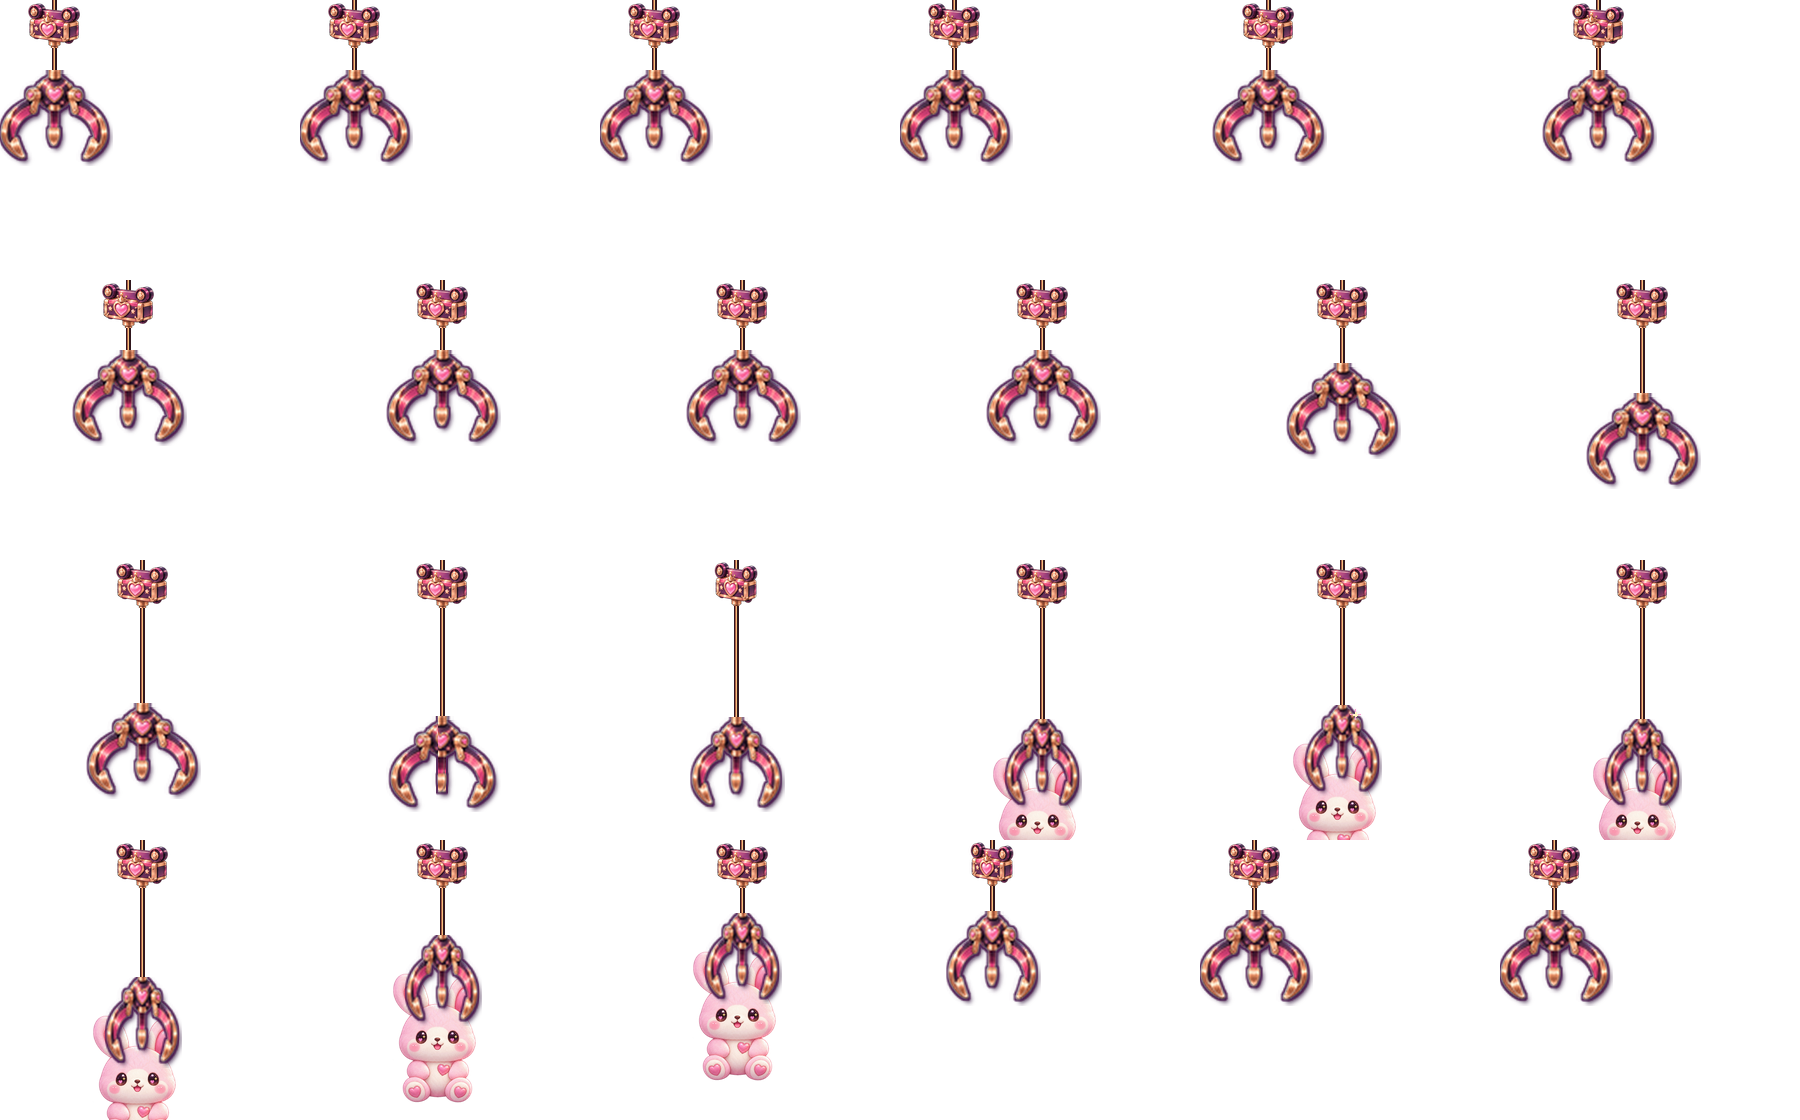
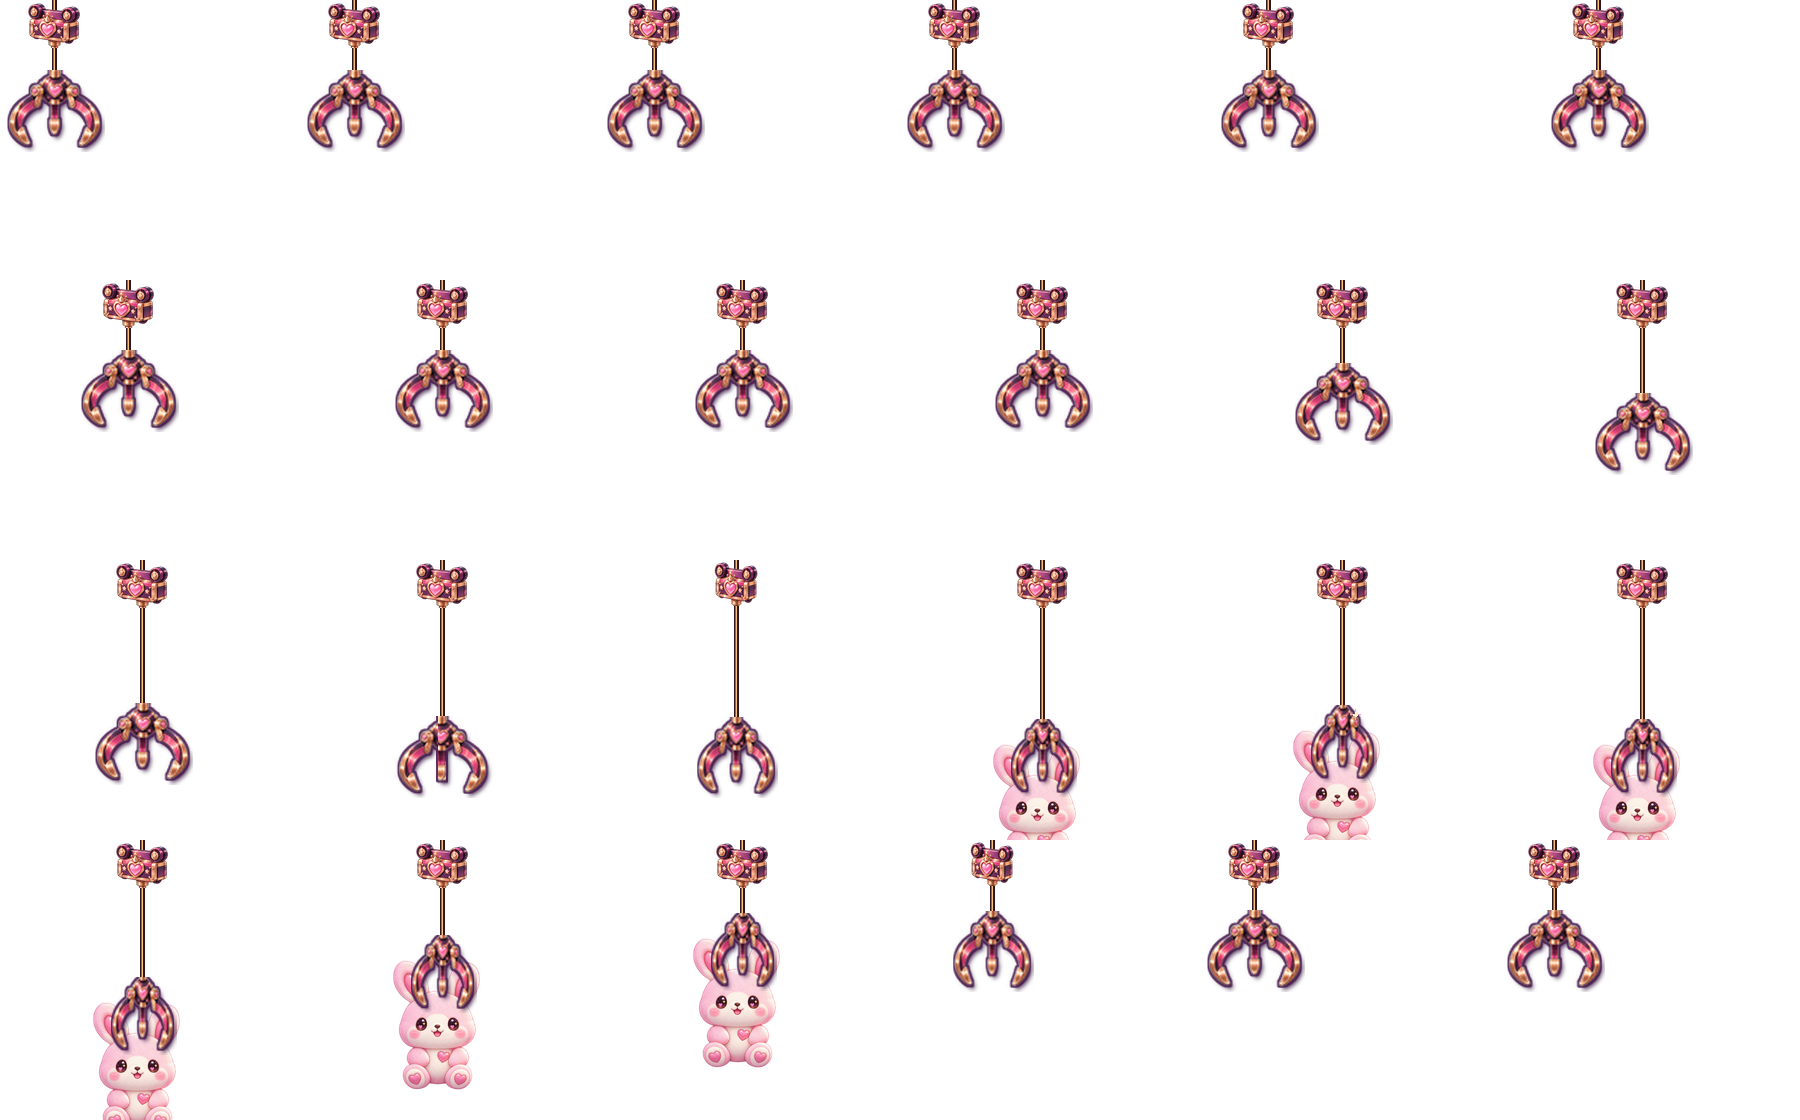
Redesign gacha ceiling mobile rotation

diff --git a/src/shooter/maps/GachaArcadeField.jsx b/src/shooter/maps/GachaArcadeField.jsx
@@ -36,9 +36,6 @@ export default function GachaArcadeField({ active = true, runtimeAnimation }) {
         const frameIndex = Math.floor((phasedElapsedMs * sprite.framesPerSecond) / 1000) % sprite.frameCount;
         if (element.dataset.frameIndex !== String(frameIndex)) {
           setSpriteFrame(element, frameIndex, sprite.columns, sprite.rows);
-          if (sprite.rotationTurns) {
-            element.style.transform = `perspective(520px) rotateY(${(frameIndex / sprite.frameCount) * sprite.rotationTurns * 360}deg)`;
-          }
         }
       });
     }, { framesPerSecond: runtimeAnimation.clockFramesPerSecond });
@@ -69,7 +66,6 @@ export default function GachaArcadeField({ active = true, runtimeAnimation }) {
             height: `${(sprite.placement.height / runtimeAnimation.canvasHeight) * 100}%`,
             left: `${(sprite.placement.x / runtimeAnimation.canvasWidth) * 100}%`,
             top: `${(sprite.placement.y / runtimeAnimation.canvasHeight) * 100}%`,
-            transformOrigin: sprite.rotationTurns ? "50% 50%" : undefined,
             width: `${(sprite.placement.width / runtimeAnimation.canvasWidth) * 100}%`,
           }}
         />

diff --git a/src/shooter/maps/skins/gachaArcade.js b/src/shooter/maps/skins/gachaArcade.js
@@ -76,7 +76,7 @@ const sprites = Object.freeze([
   },
   {
     id: "star_light_ring",
-    src: `${GACHA_ARCADE_ROOT}/spritesheets/star_light_ring_sheet_6x4.png`,
+    src: `${GACHA_ARCADE_ROOT}/runtime/star_mobile_horizontal_sheet_6x4.png`,
     columns: 6,
     rows: 4,
     frameCount: 24,
@@ -85,7 +85,6 @@ const sprites = Object.freeze([
     delayMs: 0,
     phaseOffsetMs: 1000,
     scaleChange: false,
-    rotationTurns: 1,
     placement: Object.freeze({ x: 538, y: 379, width: 460, height: 364 }),
   },
 ].map((sprite) => Object.freeze(sprite)));
@@ -106,7 +105,7 @@ export const GACHA_ARCADE_MAP_SKIN = Object.freeze({
       mode: "full",
       audit: Object.freeze({
         completed: true,
-        contentFingerprint: "abc2d352",
+        contentFingerprint: "180814d7",
         activeCssAnimations: 0,
         ambientEventLayers: 0,
         filteredElements: 0,

diff --git a/scripts/build-gacha-mobile-runtime.py b/scripts/build-gacha-mobile-runtime.py
@@ -1,0 +1,103 @@
+"""Build a true horizontal carousel mobile without rotating the image plane."""
+
+from math import cos, pi, sin
+from pathlib import Path
+
+from PIL import Image, ImageDraw
+
+
+ROOT = Path(__file__).resolve().parents[1]
+SOURCE_DIR = ROOT / "public/assets/maps/gacha-arcade/spritesheets"
+OUTPUT_DIR = ROOT / "public/assets/maps/gacha-arcade/runtime"
+FRAME_SIZE = (460, 364)
+FRAME_COUNT = 24
+ORBIT_COUNT = 5
+
+
+def crop_visible(source: Image.Image) -> Image.Image:
+    rgba = source.convert("RGBA")
+    bbox = rgba.getchannel("A").getbbox()
+    if bbox is None:
+        raise RuntimeError("The mobile pendant source has no visible pixels")
+    return rgba.crop(bbox)
+
+
+def contain(source: Image.Image, width: int, height: int) -> Image.Image:
+    scale = min(width / source.width, height / source.height)
+    return source.resize(
+        (max(1, round(source.width * scale)), max(1, round(source.height * scale))),
+        Image.Resampling.LANCZOS,
+    )
+
+
+def draw_gold_line(draw: ImageDraw.ImageDraw, points, width: int = 2) -> None:
+    draw.line(points, fill=(71, 30, 45, 235), width=width + 2)
+    draw.line(points, fill=(241, 174, 84, 255), width=width)
+    draw.line(points, fill=(255, 232, 166, 235), width=1)
+
+
+def build_mobile_sheet() -> None:
+    ring_source = Image.open(SOURCE_DIR / "star_mobile_ring_source.png")
+    pendant_source = Image.open(SOURCE_DIR / "star_mobile_pendant_source.png")
+    ring = contain(crop_visible(ring_source), 430, 174)
+    pendant = crop_visible(pendant_source)
+
+    frame_width, frame_height = FRAME_SIZE
+    sheet = Image.new("RGBA", (frame_width * 6, frame_height * 4), (0, 0, 0, 0))
+    ring_x = (frame_width - ring.width) // 2
+    ring_y = 7
+    hub = (frame_width // 2, 81)
+    orbit_radius_x = 169
+    orbit_radius_y = 30
+    string_lengths = (82, 112, 145, 110, 84)
+
+    for frame_index in range(FRAME_COUNT):
+        frame = Image.new("RGBA", FRAME_SIZE, (0, 0, 0, 0))
+        back_layer = Image.new("RGBA", FRAME_SIZE, (0, 0, 0, 0))
+        back_draw = ImageDraw.Draw(back_layer)
+        front_layer = Image.new("RGBA", FRAME_SIZE, (0, 0, 0, 0))
+        front_draw = ImageDraw.Draw(front_layer)
+        ornaments = []
+
+        rotation = (frame_index / FRAME_COUNT) * 2 * pi
+        for pendant_index in range(ORBIT_COUNT):
+            angle = rotation + (pendant_index / ORBIT_COUNT) * 2 * pi
+            depth = sin(angle)
+            attachment = (
+                round(hub[0] + orbit_radius_x * cos(angle)),
+                round(hub[1] + orbit_radius_y * depth),
+            )
+            string_bottom = attachment[1] + string_lengths[pendant_index]
+            scale = 0.70 + ((depth + 1) / 2) * 0.25
+            star_height = round(48 * scale)
+            star = contain(pendant, star_height, star_height)
+            star_position = (
+                attachment[0] - star.width // 2,
+                string_bottom - round(star.height * 0.10),
+            )
+            ornaments.append((depth, attachment, string_bottom, star, star_position))
+
+            # The radial support changes direction around the fixed horizontal ring.
+            draw_gold_line(back_draw, (hub, attachment), 2)
+
+        for depth, attachment, string_bottom, _, _ in ornaments:
+            target = back_draw if depth < 0 else front_draw
+            draw_gold_line(target, (attachment, (attachment[0], string_bottom)), 1)
+
+        frame.alpha_composite(back_layer)
+        frame.alpha_composite(ring, (ring_x, ring_y))
+        frame.alpha_composite(front_layer)
+
+        for _, _, _, star, position in sorted(ornaments, key=lambda item: item[0]):
+            frame.alpha_composite(star, position)
+
+        column = frame_index % 6
+        row = frame_index // 6
+        sheet.alpha_composite(frame, (column * frame_width, row * frame_height))
+
+    OUTPUT_DIR.mkdir(parents=True, exist_ok=True)
+    sheet.save(OUTPUT_DIR / "star_mobile_horizontal_sheet_6x4.png", optimize=True)
+
+
+if __name__ == "__main__":
+    build_mobile_sheet()

diff --git a/scripts/build-gacha-claw-runtime.py b/scripts/build-gacha-claw-runtime.py
@@ -16,7 +16,7 @@ SHEETS = (
 )
 
 PLUSH_SOURCE = SOURCE_DIR / "claw_bunny_plush_source.png"
-CLAW_RENDER_SCALE = 1.65
+CLAW_RENDER_SCALE = 1.4
 
 
 def broad_row_groups(alpha: Image.Image) -> list[list[int]]:
